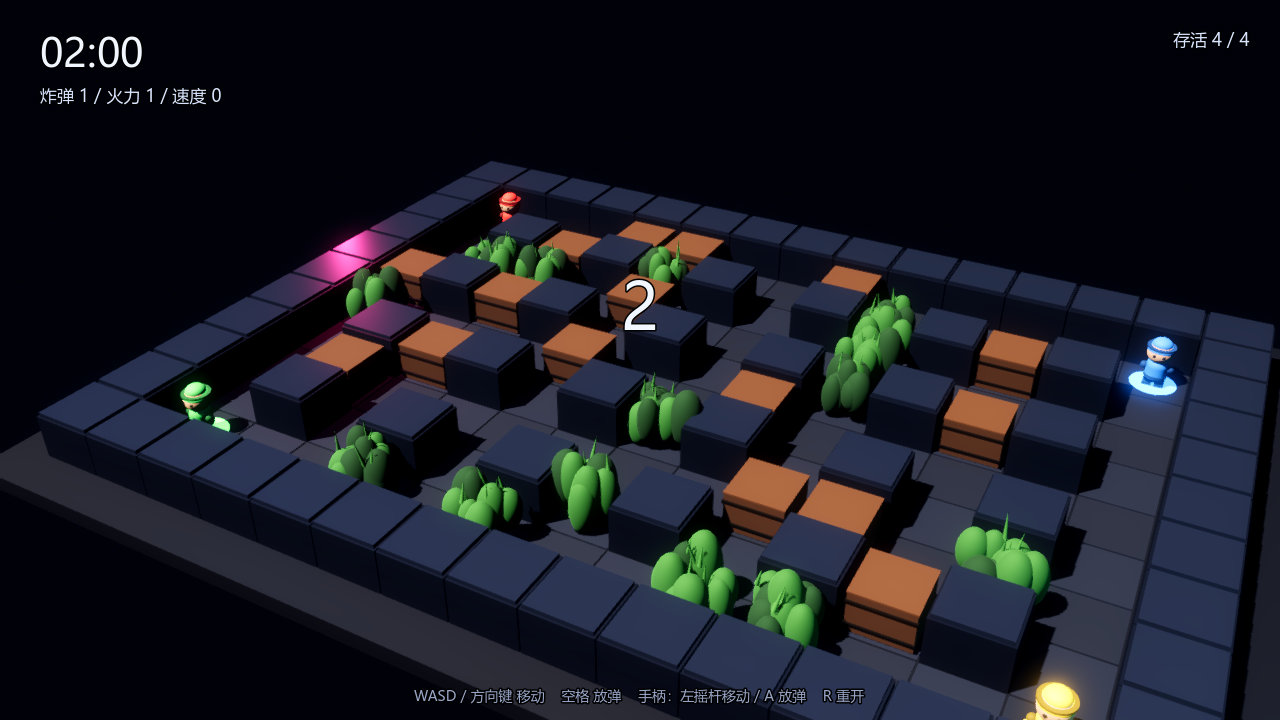
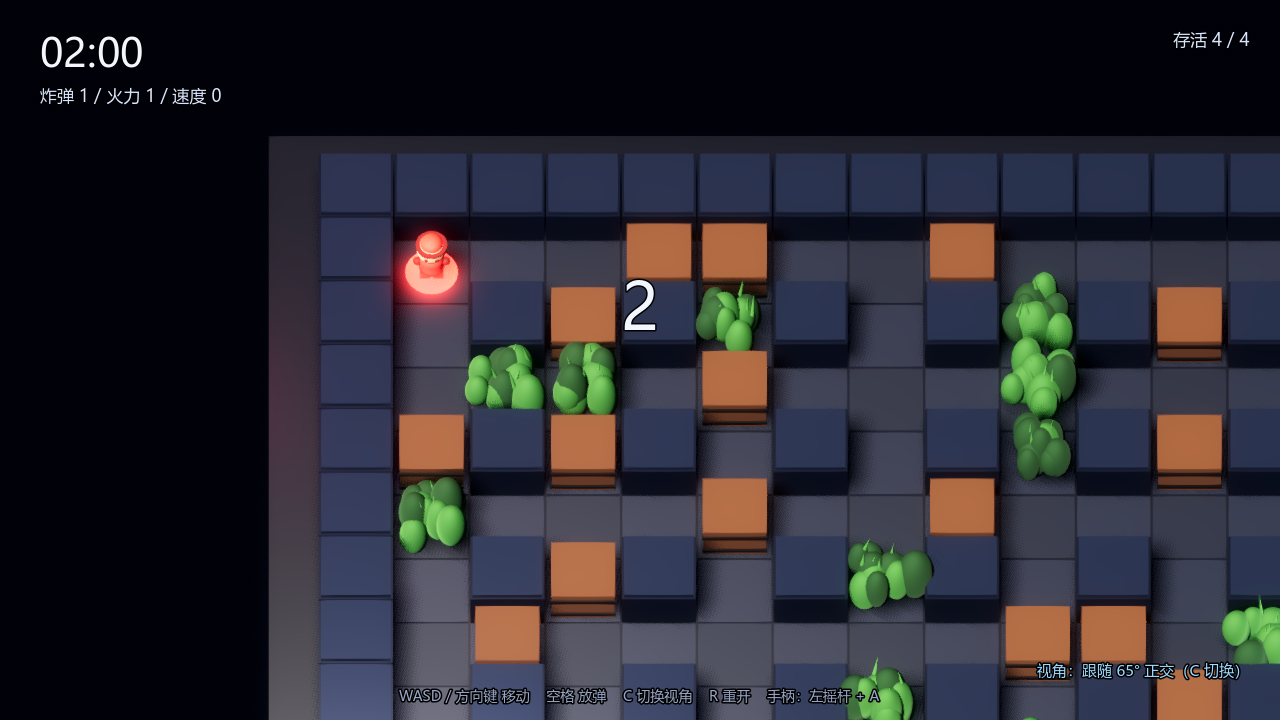
tweak(game3d): 默认视角改为「跟随 65° 正交」并按试玩反馈调framing
- 跟随焦点夹紧到场地内圈，画面始终有战场
- 视野放宽到约 10 格，人物压到画面中下部（不再贴顶）
- 重新导出 build/火拼炸弹堂3D.exe

diff --git a/game3d/README.md b/game3d/README.md
@@ -102,14 +102,14 @@ _tools\godot\Godot_v4.7.2-stable_win64.exe --path game3d -- shot                
 
 | # | 视角 | 适合 | 代价 |
 |---|---|---|---|
-| 1 | **全场 正交 45°（默认）** | 4 人混战要看得全 | 角色略小 |
-| 2 | 跟随 65° 正交 | 人物大、身边 8 格清楚 | 看不到远处 |
+| 1 | 全场 正交 45° | 4 人混战要看得全 | 角色略小 |
+| 2 | **跟随 65° 正交（默认）** | 人物大、身边 10 格清楚，镜头跟人走 | 看不到远处 |
 | 3 | 跟随 78° 近俯视 | 遮挡最少 | 只见头顶 |
 | 4 | 跟随 55° 透视 | 纵深强、像动作游戏 | 远近格子不等大 |
 | 5 | 全场 透视 55° | 画面最好看 | 判读最差 |
 
-默认是「全场正交」：**正交没有透视变形，格子等距**，4 个人在地图上跑的时候，
-你看到的距离就是真实距离——这对炸弹游戏是刚需（判断“炸不炸得到”全靠这个）。
+默认是「跟随 65° 正交」：**正交没有透视变形、格子等距，镜头跟着人走**，玩起来更像在场上跑；
+想一眼看全图可以按 C 切到 1 号视角。
 
 为了让 3D 真的能玩，另外改了三处：
 
